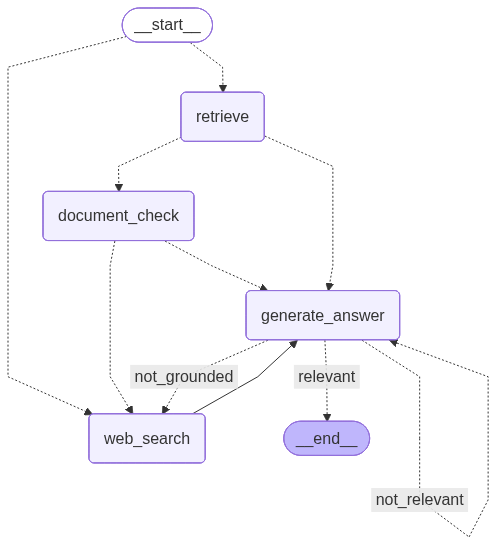
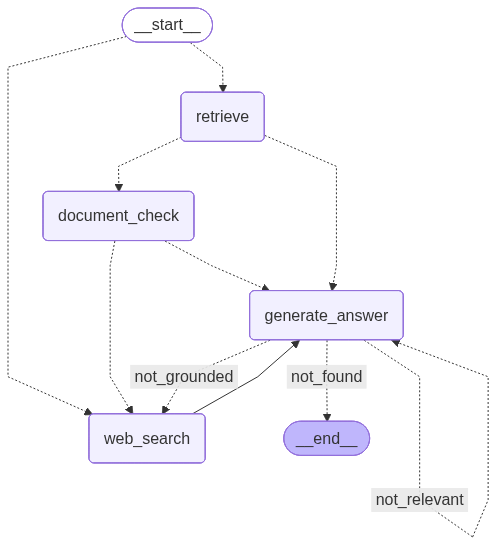
feat: optimize prompts and add adaptive CRAG routing
- Make generation prompt adaptive (30-50 words simple, 200-300 complex, step-by-step for procedural)
- Optimize all checker prompts for 60-80% token reduction (hallucination, router, answer, document)
- Add CRAG flag routing: skip question_router and document_check when crag=False
- Add answer_found tracking to detect when info not available in documents
- Simplify graph routing logic with route_after_retrieve function
- Total token savings: ~800+ tokens per full RAG cycle

diff --git a/graph/node_and_chain/generation.py b/graph/node_and_chain/generation.py
@@ -13,29 +13,21 @@ llm = ChatGoogleGenerativeAI(
     temperature=0
 )
 
-# Custom RAG prompt for high-quality answer generation
-system_template = """You are an expert assistant providing accurate, well-structured answers based on retrieved source documents.
+# Adaptive RAG prompt - adjusts length based on question complexity
+system_template = """Answer using ONLY the provided context. Do not add external knowledge.
 
-Your task is to answer the user's question using ONLY the information provided in the context documents below.
+Adaptive Length Rules:
+- Simple/factual questions: 30-50 words
+- Complex questions: 200-300 words
+- Step-by-step/list questions: numbered steps or bullet points
 
-Guidelines for Answer Generation:
-1. **Accuracy**: Base your answer strictly on the provided context. Do not add external knowledge or assumptions.
-2. **Completeness**: Provide a comprehensive answer that fully addresses the question using all relevant information from the documents.
-3. **Clarity**: Write in clear, concise language that is easy to understand.
-4. **Structure**: Organize your answer logically with proper paragraphs or bullet points when appropriate.
-5. **Honesty**: If the context does not contain enough information to answer the question fully, clearly state what information is missing.
-6. **Citations**: When referencing specific information, you may indicate which part of the context it comes from.
+Requirements:
+1. Base answer strictly on context below
+2. If context lacks info, state: "Information not available in source material."
+3. No headers, reasoning, or commentary—only the answer
 
-Context Documents:
-{context}
-
-Instructions:
-- If the context fully answers the question, provide a complete and detailed response.
-- If the context only partially answers the question, provide what you can and acknowledge any gaps.
-- If the context does not answer the question at all, clearly state: "Based on the provided documents, I cannot answer this question as the information is not available in the source material."
-- Do not make up or infer information that is not explicitly stated or reasonably implied in the context.
-
-Answer the question below based on the context above."""
+Context:
+{context}"""
 
 human_template = """Question: {question}
 
@@ -54,4 +46,8 @@ def generate_answer(state: GraphState) -> Dict[str, Any]:
     documents = state["documents"]
 
     generation = generation_chain.invoke({"question": question, "context": documents})
-    return {"documents": documents, "question": question, "generation": generation}
+    
+    # Check if answer indicates information not found
+    answer_found = "information not available" not in generation.lower()
+    
+    return {"documents": documents, "question": question, "generation": generation, "answer_found": answer_found}

diff --git a/graph/node_and_chain/router.py b/graph/node_and_chain/router.py
@@ -18,41 +18,21 @@ llm = ChatGoogleGenerativeAI(
 
 structured_llm_router = llm.with_structured_output(RouteQuery)
 
-system = """You are an expert query router for a philosophy-focused Retrieval Augmented Generation (RAG) system.
+system = """Route questions to the best data source.
 
-Your task is to analyze the user's question and determine the best data source to answer it.
+'vector_store': Philosophy questions (concepts, theories, philosophers like Mill/Kant/Plato, ethics, metaphysics, epistemology, logic, political philosophy, moral reasoning, utilitarianism, deontology, virtue ethics, philosophy of mind/religion/science/language, philosophical texts)
 
-Routing Decision:
-- Route to 'vector_store' if the question is about PHILOSOPHY:
-  * Philosophical concepts, theories, or arguments
-  * Philosophers and their works (e.g., Mill, Kant, Plato, Aristotle, etc.)
-  * Ethics, metaphysics, epistemology, logic, political philosophy
-  * Philosophical terms and definitions
-  * Moral reasoning, utilitarianism, deontology, virtue ethics
-  * Philosophy of mind, religion, science, or language
-  * Any philosophical readings, texts, or academic philosophy content
-  * Examples: "What is Mill's definition of...", "Explain utilitarianism", "What does Kant say about..."
+'web_search': Non-philosophy questions (current events, news, sports, science, technology, math, history, geography, how-to, general knowledge)
 
-- Route to 'web_search' for NON-PHILOSOPHY questions:
-  * Current events, news, sports, entertainment
-  * Science, technology, math (unless philosophy of science)
-  * History, geography, culture (unless philosophical history)
-  * Personal advice, how-to questions, practical matters
-  * General knowledge not related to philosophy
-  * Examples: "What's the weather...", "How to cook...", "Latest news about..."
+Rules:
+1. Any philosophical topic/concept/philosopher → 'vector_store'
+2. Clearly non-philosophy → 'web_search'
+3. Vector store = philosophy course materials
+4. When unsure → 'vector_store'"""
 
-Important Guidelines:
-1. If the question mentions ANY philosophical topic, concept, or philosopher → 'vector_store'
-2. If the question is clearly not about philosophy → 'web_search'
-3. Your vector store contains philosophy course materials and readings
-4. When in doubt about philosophical relevance, choose 'vector_store'
+human = """Question: {question}
 
-Provide your routing decision as either 'vector_store' or 'web_search'."""
-
-human = """User's Question:
-{question}
-
-Task: Is this question about philosophy? If yes, route to 'vector_store'. If no (non-philosophy topic), route to 'web_search'."""
+Philosophy question? Route to 'vector_store'. Otherwise 'web_search'."""
 
 route_prompt = ChatPromptTemplate.from_messages([
     ("system", system),

diff --git a/graph/node_and_chain/hallucination_checker.py b/graph/node_and_chain/hallucination_checker.py
@@ -15,35 +15,23 @@ class CheckHallucination(BaseModel):
 
 structured_llm_grader = llm.with_structured_output(CheckHallucination)
 
-system = """You are a strict grader evaluating whether an AI-generated answer is grounded in and supported by the provided source documents.
+system = """Evaluate if the generated answer is grounded in the source documents.
 
-Your task is to assess if the answer contains only information that can be directly found in or reasonably inferred from the given documents.
+Grade 'yes' if: All claims can be traced to the documents (direct quotes, paraphrasing, or reasonable inference).
+Grade 'no' if: Any part contains unsupported information, hallucinations, or contradicts the documents.
 
-Grading Criteria:
-- **yes**: The answer is fully grounded in the documents. All claims, facts, and statements can be traced back to the source documents.
-- **no**: The answer contains information not present in the documents, makes unsupported claims, or includes hallucinated content.
+Rules:
+1. Be strict - any unverifiable claim = 'no'
+2. Reasonable inference OK, speculation not OK
+3. Generic knowledge must be document-supported"""
 
-Important Guidelines:
-1. Be strict: If ANY part of the answer cannot be verified from the documents, grade it as 'no'
-2. Reasonable inference is acceptable, but speculation is not
-3. Direct quotes or paraphrasing from documents should be graded as 'yes'
-4. Generic knowledge not specific to the documents should be graded as 'no' unless it's clearly supported by the documents
-5. If the answer contradicts the documents, grade it as 'no'
+human = """Question: {question}
 
-Provide a binary score of 'yes' or 'no' to indicate whether the answer is grounded or supported in the provided documents."""
+Documents: {documents}
 
-human = """I need you to evaluate if the generated answer is grounded in the source documents.
+Answer: {generation}
 
-User's Question:
-{question}
-
-Source Documents (Context):
-{documents}
-
-Generated Answer to Evaluate:
-{generation}
-
-Task: Determine if the answer above is fully supported by the source documents. Grade as 'yes' if grounded, or 'no' if it contains unsupported information."""
+Is the answer fully supported by the documents? Grade 'yes' or 'no'."""
 
 hallucination_checker_prompt = ChatPromptTemplate.from_messages(
     [

diff --git a/graph/node_and_chain/answer_checker.py b/graph/node_and_chain/answer_checker.py
@@ -15,38 +15,18 @@ llm = ChatGoogleGenerativeAI(
 )
 structured_llm_grader = llm.with_structured_output(CheckAnswer)
 
-system = """You are an expert evaluator assessing the quality and relevance of AI-generated answers.
+system = """Evaluate if the answer addresses the question.
 
-Your task is to determine whether the generated answer properly addresses and answers the user's question.
+Grade 'yes': Answer attempts to address the question (directly, partially, or with relevant info).
+Grade 'no': Answer completely ignores question, off-topic, or unhelpful.
 
-Grading Criteria:
-- Grade as 'yes' if the answer:
-  * Directly addresses the question asked
-  * Provides relevant information that helps answer the question
-  * Contains a clear response to what was asked
-  * May be partial but still attempts to answer the question
+Be lenient - partial/imperfect answers that are relevant = 'yes'."""
 
-- Grade as 'no' if the answer:
-  * Completely ignores the question
-  * Provides irrelevant or off-topic information
-  * States it cannot answer without providing any useful information
-  * Discusses something entirely different from what was asked
+human = """Question: {question}
 
-Important Guidelines:
-1. Focus on whether the answer ATTEMPTS to address the question, not whether it's perfect
-2. Partial answers that provide some relevant information should be graded as 'yes'
-3. Only grade as 'no' if the answer is completely unhelpful or off-topic
-4. The answer doesn't need to be comprehensive, just relevant
+Answer: {generation}
 
-Provide a binary score: 'yes' (addresses the question) or 'no' (does not address the question)."""
-
-human = """User's Question:
-{question}
-
-Generated Answer:
-{generation}
-
-Task: Evaluate whether the answer above addresses and attempts to answer the user's question. Grade as 'yes' if it does, or 'no' if it doesn't."""
+Does the answer address the question? Grade 'yes' or 'no'."""
 
 answer_check_prompt = ChatPromptTemplate.from_messages([
     ("system", system),

diff --git a/graph/graph.py b/graph/graph.py
@@ -17,9 +17,9 @@ def decide_web_search(state: GraphState) -> str:
     else:
         return GENERATE_ANSWER
 
-def enable_crag(state: GraphState) -> str:
-    print("--Enable CRAG---")
-    if state["crag"]:
+def route_after_retrieve(state: GraphState) -> str:
+    """Route after retrieval based on CRAG flag"""
+    if state.get("crag", True):
         return DOCUMENT_CHECK
     else:
         return GENERATE_ANSWER
@@ -29,6 +29,10 @@ def check_hallucination_and_answer(state: GraphState) -> str:
     question = state["question"]
     generation = state["generation"]
     documents = state["documents"]
+    
+    if not state.get("answer_found", True):
+        print("ℹ Answer not found in source material")
+        return "not_found"
     
     score = hallucination_checker.invoke(
         {"question": question, "generation": generation, "documents": documents}
@@ -52,6 +56,11 @@ def check_hallucination_and_answer(state: GraphState) -> str:
 
 def route_question(state: GraphState) -> str:
     print("--Router---")
+    
+    if not state.get("crag", True):
+        print("--CRAG disabled, routing directly to Vector Store---")
+        return RETRIEVE
+    
     question = state["question"]
     source: RouteQuery = question_router.invoke({"question": question})
     if source.datasource == "web_search":
@@ -77,7 +86,7 @@ workflow.set_conditional_entry_point(
 )
 workflow.add_conditional_edges(
   RETRIEVE,
-  enable_crag,
+  route_after_retrieve,
   {
       DOCUMENT_CHECK: DOCUMENT_CHECK,
       GENERATE_ANSWER: GENERATE_ANSWER,
@@ -101,10 +110,9 @@ workflow.add_conditional_edges(
       "relevant": END,
       "not_relevant": GENERATE_ANSWER,
       "not_grounded": WEB_SEARCH,
+      "not_found": END,
   }
 )
-
-workflow.add_edge(GENERATE_ANSWER, END)
 
 app = workflow.compile()
 

diff --git a/graph/node_and_chain/document_check.py b/graph/node_and_chain/document_check.py
@@ -18,26 +18,12 @@ class CheckDocuments(BaseModel):
 
 structured_llm_grader = llm.with_structured_output(CheckDocuments)
 
-system = """You are an expert document relevance evaluator for a Retrieval Augmented Generation (RAG) system.
+system = """Evaluate if the document can help answer the question.
 
-Your task is to assess whether a retrieved document contains information that can help answer the user's question.
+Grade 'yes': Document contains relevant answers, keywords, concepts, context, or semantically aligned info.
+Grade 'no': Document completely off-topic or unhelpful.
 
-Grading Criteria:
-- Grade as 'yes' if the document contains:
-  * Direct answers or facts relevant to the question
-  * Keywords, concepts, or entities mentioned in the question
-  * Related context that provides background or supporting information
-  * Semantic meaning aligned with the question's intent
-
-- Grade as 'no' if the document:
-  * Is completely off-topic or unrelated to the question
-  * Only contains tangentially related information that doesn't help answer the question
-  * Discusses different aspects of a keyword without addressing the question's intent
-
-Important: Be lenient rather than strict. If there's ANY useful information that could contribute to answering the question, grade it as 'yes'. 
-The goal is to retain potentially useful context while filtering out completely irrelevant documents.
-
-Provide a binary score: 'yes' (relevant) or 'no' (not relevant)."""
+Be lenient - any useful information = 'yes'."""
 document_check_prompt = ChatPromptTemplate.from_messages(
     [
         ("system", system),

diff --git a/ingestion.py b/ingestion.py
@@ -7,8 +7,8 @@ import os
 load_dotenv()
 
 file_path = [
-  "D:\\crag_demo\\105 Reading Selections.pdf",
-  "D:\\crag_demo\\Definitions for PHI 105.pdf"
+  "D:\\advanced-rag-system\\105 Reading Selections.pdf",
+  "D:\\advanced-rag-system\\Definitions for PHI 105.pdf"
 ]
 docs = []
 for path in file_path:
@@ -17,8 +17,8 @@ for path in file_path:
     
     
 text_splitter = RecursiveCharacterTextSplitter(
-    chunk_size=5000,
-    chunk_overlap=1000
+    chunk_size=2000,
+    chunk_overlap=500
 )
 
 docs_split = text_splitter.split_documents(docs)

diff --git a/main.py b/main.py
@@ -4,4 +4,4 @@ load_dotenv()
 
 if __name__ == "__main__":
     print("Starting the graph application...")
-    print(app.invoke({"question": "What is Mill's definition of higher pleasure?", "crag": False}))
+    app.invoke({"question": "Why was Socrates executed?", "crag": True})

diff --git a/graph/node_and_chain/retrieve.py b/graph/node_and_chain/retrieve.py
@@ -17,7 +17,7 @@ retriever = PineconeVectorStore.from_existing_index(
     index_name=index_name
 ).as_retriever(
     search_type="similarity",
-    search_kwargs={"k": 5}
+    search_kwargs={"k": 3}
 )
 
 def retrieve(state: GraphState) -> Dict[str, Any]:

diff --git a/graph/state.py b/graph/state.py
@@ -7,3 +7,4 @@ class GraphState(TypedDict):
     web_search: bool
     crag: bool
     documents: List[str]
+    answer_found: bool
